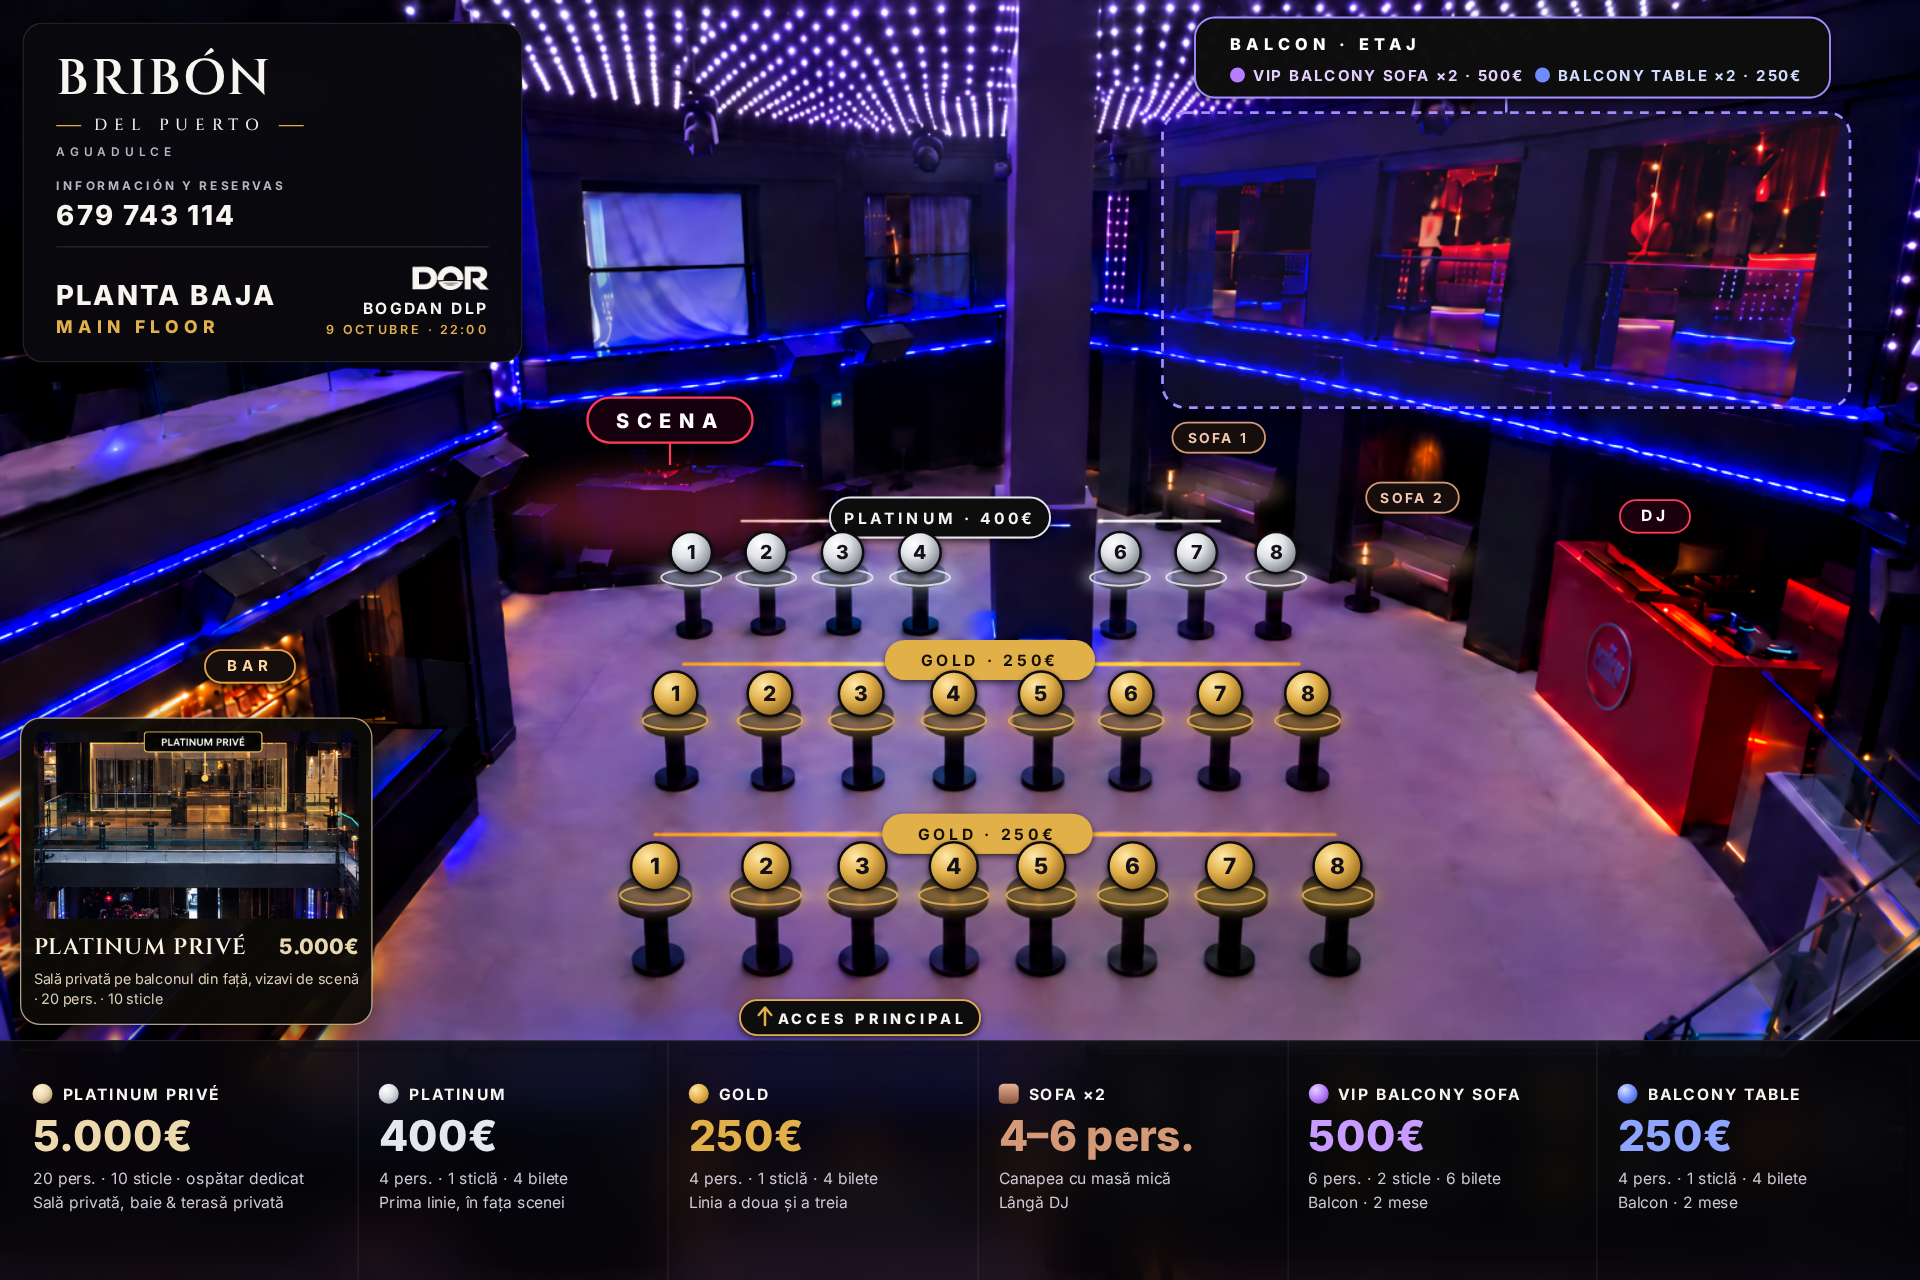
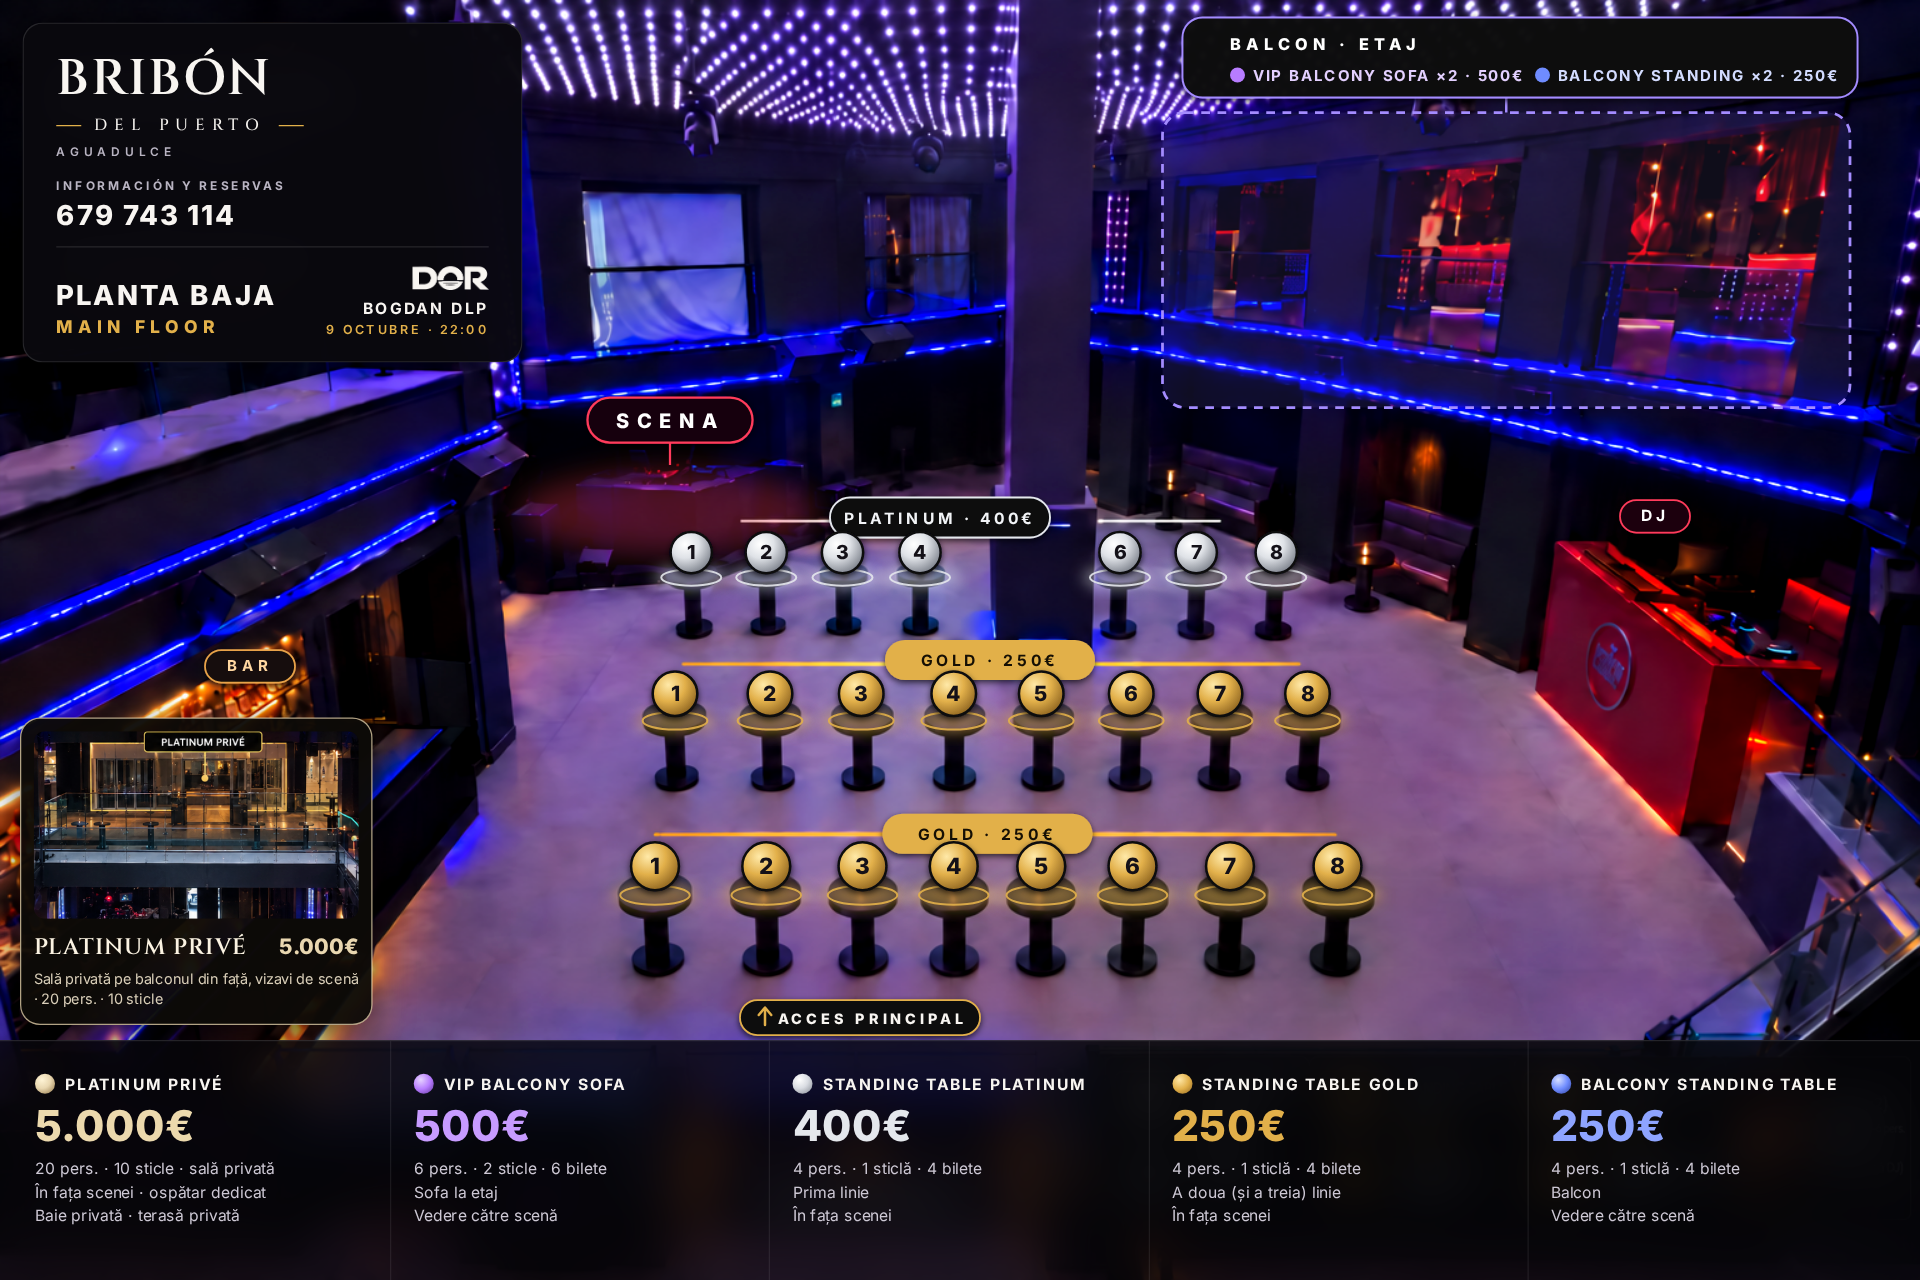
Harta pe foto: legenda aliniată la cele 5 tipuri oficiale de mese (fără Sofa parter)
Claude-Session: https://claude.ai/code/session_01CQvvotQmQH2aqorEYVjyXo

diff --git a/harta_mese/harta_foto.html b/harta_mese/harta_foto.html
@@ -36,8 +36,8 @@
 
   /* bandă legendă în poză (varianta landscape) */
   .lg{left:0;right:0;bottom:0;height:192px;border-radius:0;border-width:1px 0 0;
-    display:grid;grid-template-columns:1.12fr repeat(5,1fr);padding:0 10px;background:rgba(6,6,10,.84)}
-  .lg > div{padding:34px 16px 0;border-right:1px solid rgba(255,255,255,.08)}
+    display:grid;grid-template-columns:repeat(5,1fr);padding:0 10px;background:rgba(6,6,10,.84)}
+  .lg > div{padding:26px 18px 0;border-right:1px solid rgba(255,255,255,.08)}
   .lg > div:last-child{border-right:0}
   .lg .k{display:flex;align-items:center;gap:8px;font-weight:700;font-size:12.5px;letter-spacing:.12em;white-space:nowrap}
   .lg .sw{width:16px;height:16px;border-radius:50%;flex:none}
@@ -82,13 +82,13 @@
   .pt div{font-weight:600;font-size:12px;letter-spacing:.3em;color:var(--mute);text-align:right;line-height:1.7}
   .pt div b{color:var(--ink)}
   .frame{position:relative;width:1080px;height:626px;overflow:hidden}
-  .pl{display:grid;grid-template-columns:repeat(3,1fr);gap:10px;margin:22px 48px 0}
+  .pl{display:grid;grid-template-columns:repeat(4,1fr);gap:10px;margin:22px 48px 0}
   .pl .pz{display:flex;flex-direction:column;justify-content:center;border-color:rgba(226,176,74,.4)}
   .pl .pz span{font-size:10.5px;letter-spacing:.24em;color:var(--mute);font-weight:700}
   .pl .pz b{font-size:27px;font-weight:800;letter-spacing:.06em;margin-top:10px}
   .story .pl{grid-template-columns:repeat(2,1fr);gap:12px}
   .pl > div{border:1px solid #2a2833;border-radius:14px;padding:15px 15px 14px;background:linear-gradient(180deg,rgba(255,255,255,.04),rgba(255,255,255,.01))}
-  .pl .k{display:flex;align-items:center;gap:9px;font-weight:700;font-size:12.5px;letter-spacing:.18em}
+  .pl .k{display:flex;align-items:flex-start;gap:9px;font-weight:700;font-size:12px;letter-spacing:.12em;line-height:1.35;min-height:34px}
   .pl .sw{width:18px;height:18px;border-radius:50%;flex:none}
   .pl .p{font-weight:800;font-size:29px;margin-top:10px}
   .pl .s{font-size:12px;color:#cdc8d4;margin-top:4px;line-height:1.5}
@@ -162,12 +162,12 @@
       <rect x="930" y="90" width="550" height="236" rx="18" fill="#8f7bff" opacity=".10"/>
       <rect x="930" y="90" width="550" height="236" rx="18" fill="none" stroke="#a48cff" stroke-width="2.2" stroke-dasharray="7 6"/>
       <line x1="1205" y1="78" x2="1205" y2="90" stroke="#a48cff" stroke-width="2"/>
-      <rect x="956" y="14" width="508" height="64" rx="16" fill="#0a0912" fill-opacity=".96" stroke="#a48cff" stroke-width="1.5" filter="url(#shadow)"/>
+      <rect x="946" y="14" width="540" height="64" rx="16" fill="#0a0912" fill-opacity=".96" stroke="#a48cff" stroke-width="1.5" filter="url(#shadow)"/>
       <text x="984" y="40" fill="#fff" font-weight="800" font-size="13" letter-spacing="4">BALCON · ETAJ</text>
       <circle cx="990" cy="60" r="6" fill="#b77cff"/>
       <text x="1002" y="64.5" fill="#e3d0ff" font-weight="700" font-size="12" letter-spacing="1.5">VIP BALCONY SOFA ×2 · 500€</text>
       <circle cx="1234" cy="60" r="6" fill="#6f8cff"/>
-      <text x="1246" y="64.5" fill="#d3dcff" font-weight="700" font-size="12" letter-spacing="1.5">BALCONY TABLE ×2 · 250€</text>
+      <text x="1246" y="64.5" fill="#d3dcff" font-weight="700" font-size="12" letter-spacing="1.5">BALCONY STANDING ×2 · 250€</text>
     </g>
     <!-- SCENA: platforma cu echipament din spate-stânga -->
     <g>
@@ -196,13 +196,6 @@
 
     <!-- canapele, DJ, bar -->
     <g font-weight="700" font-size="11" letter-spacing="2.2" text-anchor="middle">
-      <ellipse cx="975" cy="392" rx="52" ry="14" fill="#d49a78" opacity=".35" filter="url(#blur6)"/>
-      <ellipse cx="1130" cy="448" rx="52" ry="14" fill="#d49a78" opacity=".35" filter="url(#blur6)"/>
-      <rect x="938" y="338" width="74" height="24" rx="12" fill="#140d09" stroke="#d49a78" stroke-width="1.4" filter="url(#shadow)"/>
-      <text x="975" y="354" fill="#f2c7ad">SOFA 1</text>
-      <rect x="1093" y="386" width="74" height="24" rx="12" fill="#140d09" stroke="#d49a78" stroke-width="1.4" filter="url(#shadow)"/>
-      <text x="1130" y="402" fill="#f2c7ad">SOFA 2</text>
-
       <rect x="1296" y="400" width="56" height="26" rx="13" fill="#1a0508" stroke="#ff3b5c" stroke-width="1.4" filter="url(#shadow)"/>
       <text x="1324" y="417" fill="#fff" font-size="12.5" letter-spacing="3">DJ</text>
 
@@ -236,17 +229,15 @@
   </div>
   <div class="glass lg">
     <div><div class="k"><span class="sw prive"></span>PLATINUM PRIVÉ</div><div class="p c-prive">5.000€</div>
-      <div class="s">20 pers. · 10 sticle · ospătar dedicat<br>Sală privată, baie &amp; terasă privată</div></div>
-    <div><div class="k"><span class="sw plat"></span>PLATINUM</div><div class="p c-plat">400€</div>
-      <div class="s">4 pers. · 1 sticlă · 4 bilete<br>Prima linie, în fața scenei</div></div>
-    <div><div class="k"><span class="sw gold"></span>GOLD</div><div class="p c-gold">250€</div>
-      <div class="s">4 pers. · 1 sticlă · 4 bilete<br>Linia a doua și a treia</div></div>
-    <div><div class="k"><span class="sw sofa"></span>SOFA ×2</div><div class="p c-sofa">4–6 pers.</div>
-      <div class="s">Canapea cu masă mică<br>Lângă DJ</div></div>
+      <div class="s">20 pers. · 10 sticle · sală privată<br>În fața scenei · ospătar dedicat<br>Baie privată · terasă privată</div></div>
     <div><div class="k"><span class="sw vip"></span>VIP BALCONY SOFA</div><div class="p c-vip">500€</div>
-      <div class="s">6 pers. · 2 sticle · 6 bilete<br>Balcon · 2 mese</div></div>
-    <div><div class="k"><span class="sw bal"></span>BALCONY TABLE</div><div class="p c-bal">250€</div>
-      <div class="s">4 pers. · 1 sticlă · 4 bilete<br>Balcon · 2 mese</div></div>
+      <div class="s">6 pers. · 2 sticle · 6 bilete<br>Sofa la etaj<br>Vedere către scenă</div></div>
+    <div><div class="k"><span class="sw plat"></span>STANDING TABLE PLATINUM</div><div class="p c-plat">400€</div>
+      <div class="s">4 pers. · 1 sticlă · 4 bilete<br>Prima linie<br>În fața scenei</div></div>
+    <div><div class="k"><span class="sw gold"></span>STANDING TABLE GOLD</div><div class="p c-gold">250€</div>
+      <div class="s">4 pers. · 1 sticlă · 4 bilete<br>A doua (și a treia) linie<br>În fața scenei</div></div>
+    <div><div class="k"><span class="sw bal"></span>BALCONY STANDING TABLE</div><div class="p c-bal">250€</div>
+      <div class="s">4 pers. · 1 sticlă · 4 bilete<br>Balcon<br>Vedere către scenă</div></div>
   </div>
 </div>
 
@@ -264,24 +255,21 @@
     <span>Sală privată pe balconul din față, vizavi de scenă · 20 pers. · 10 sticle</span></div>
     <div class="glass vp"><h2>PLANTA BAJA<span>MAIN FLOOR</span></h2>
       <ul><li><span class="sw prive"></span>PRIVÉ</li><li><span class="sw plat"></span>PLATINUM</li><li><span class="sw gold"></span>GOLD</li>
-          <li><span class="sw sofa"></span>SOFA</li><li><span class="sw vip"></span>VIP BALCONY</li><li><span class="sw bal"></span>BALCONY</li></ul></div>
+          <li><span class="sw vip"></span>VIP BALCONY SOFA</li><li><span class="sw bal"></span>BALCONY TABLE</li></ul></div>
   </div></div>
   <div class="pl">
     <div class="prv"><div><div class="k"><span class="sw prive"></span>SALĂ PRIVATĂ</div><div class="nm">PLATINUM PRIVÉ</div><div class="p c-prive">5.000€</div></div>
-      <div class="ft">20 persoane · 10 sticle<br>În fața scenei · ospătar dedicat<br>Baie privată · terasă privată</div></div>
-    <div><div class="k"><span class="sw plat"></span>PLATINUM</div><div class="p c-plat">400€</div>
-      <div class="s">4 pers. · 1 sticlă · 4 bilete<br>Prima linie, în fața scenei</div></div>
-    <div><div class="k"><span class="sw gold"></span>GOLD</div><div class="p c-gold">250€</div>
-      <div class="s">4 pers. · 1 sticlă · 4 bilete<br>Linia a doua și a treia</div></div>
-    <div><div class="k"><span class="sw sofa"></span>SOFA ×2</div><div class="p c-sofa">4–6 pers.</div>
-      <div class="s">Canapea cu masă mică<br>Lângă DJ</div></div>
+      <div class="ft">20 persoane · 10 sticle · sală privată<br>În fața scenei · ospătar dedicat<br>Baie privată · terasă privată</div></div>
     <div><div class="k"><span class="sw vip"></span>VIP BALCONY SOFA</div><div class="p c-vip">500€</div>
-      <div class="s">6 pers. · 2 sticle · 6 bilete<br>Balcon · 2 mese</div></div>
-    <div><div class="k"><span class="sw bal"></span>BALCONY TABLE</div><div class="p c-bal">250€</div>
-      <div class="s">4 pers. · 1 sticlă · 4 bilete<br>Balcon · 2 mese</div></div>
-    <div class="pz"><span>INFORMACIÓN Y RESERVAS</span><b>679 743 114</b></div>
+      <div class="s">6 pers. · 2 sticle · 6 bilete<br>Sofa la etaj<br>Vedere către scenă</div></div>
+    <div><div class="k"><span class="sw plat"></span>STANDING TABLE PLATINUM</div><div class="p c-plat">400€</div>
+      <div class="s">4 pers. · 1 sticlă · 4 bilete<br>Prima linie<br>În fața scenei</div></div>
+    <div><div class="k"><span class="sw gold"></span>STANDING TABLE GOLD</div><div class="p c-gold">250€</div>
+      <div class="s">4 pers. · 1 sticlă · 4 bilete<br>A doua (și a treia) linie<br>În fața scenei</div></div>
+    <div><div class="k"><span class="sw bal"></span>BALCONY STANDING TABLE</div><div class="p c-bal">250€</div>
+      <div class="s">4 pers. · 1 sticlă · 4 bilete<br>Balcon<br>Vedere către scenă</div></div>
   </div>
-  <div class="pf"><span>DOR · LIVE CU FORMAȚIA</span><span>BOGDAN DLP · 9 OCTUBRE</span></div>
+  <div class="pf"><span>INFORMACIÓN Y RESERVAS<b>679 743 114</b></span><span>DOR · BOGDAN DLP · 9 OCTUBRE</span></div>
 </div>
 
 <script>
